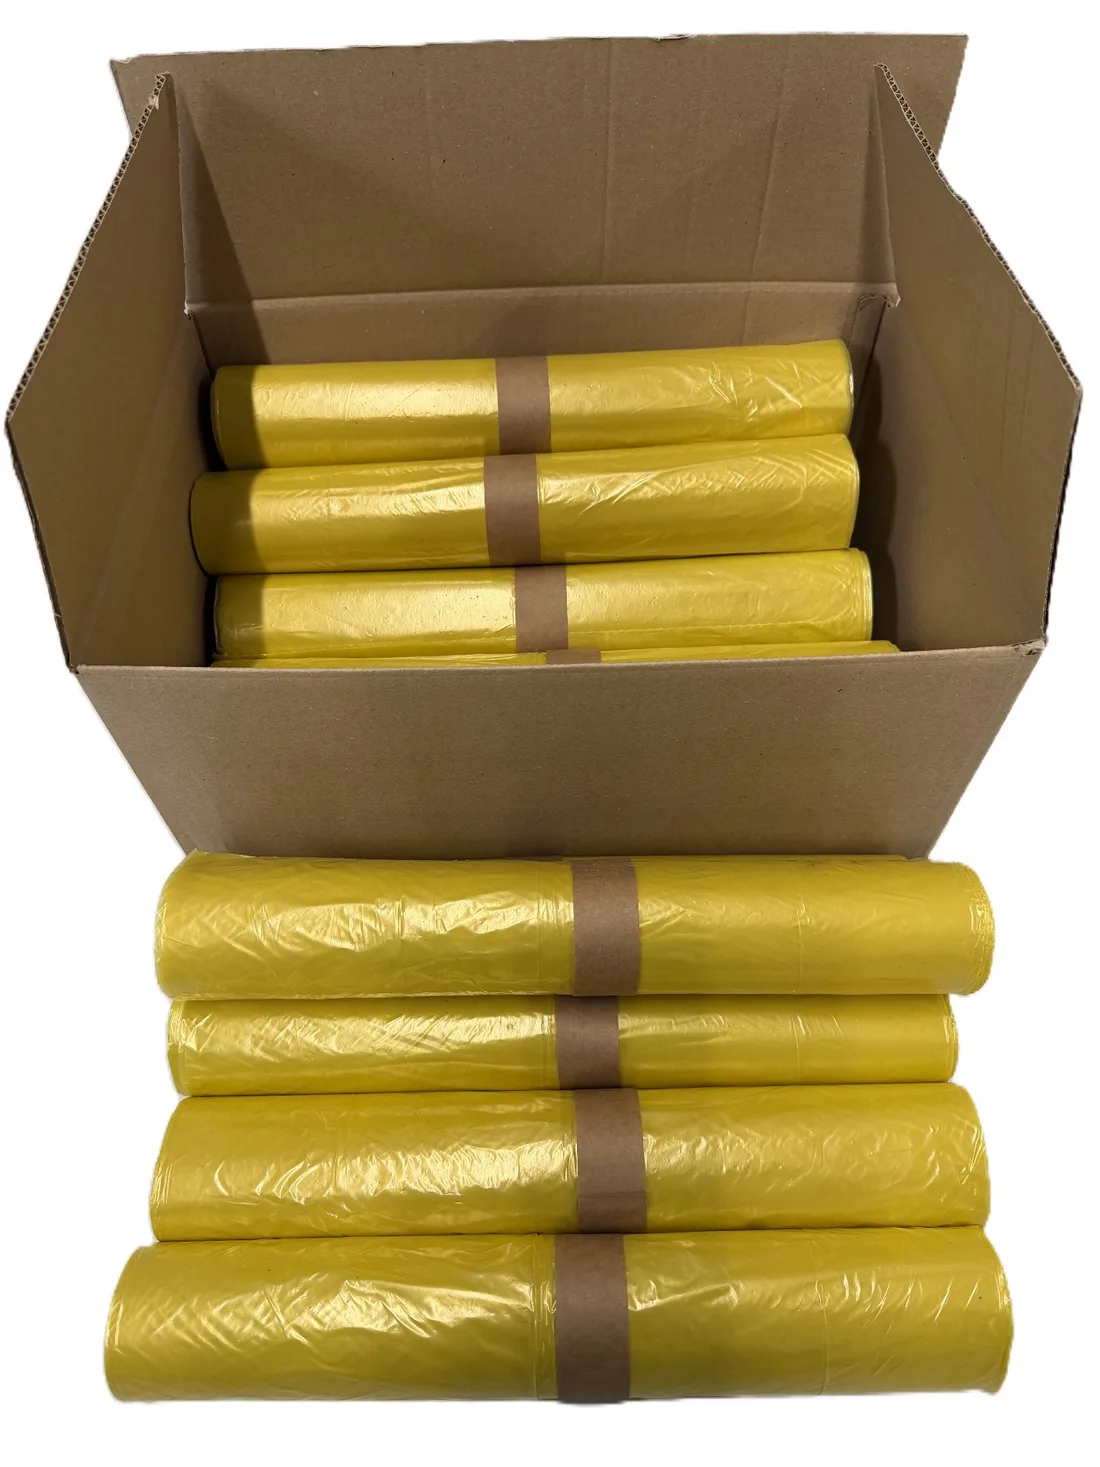
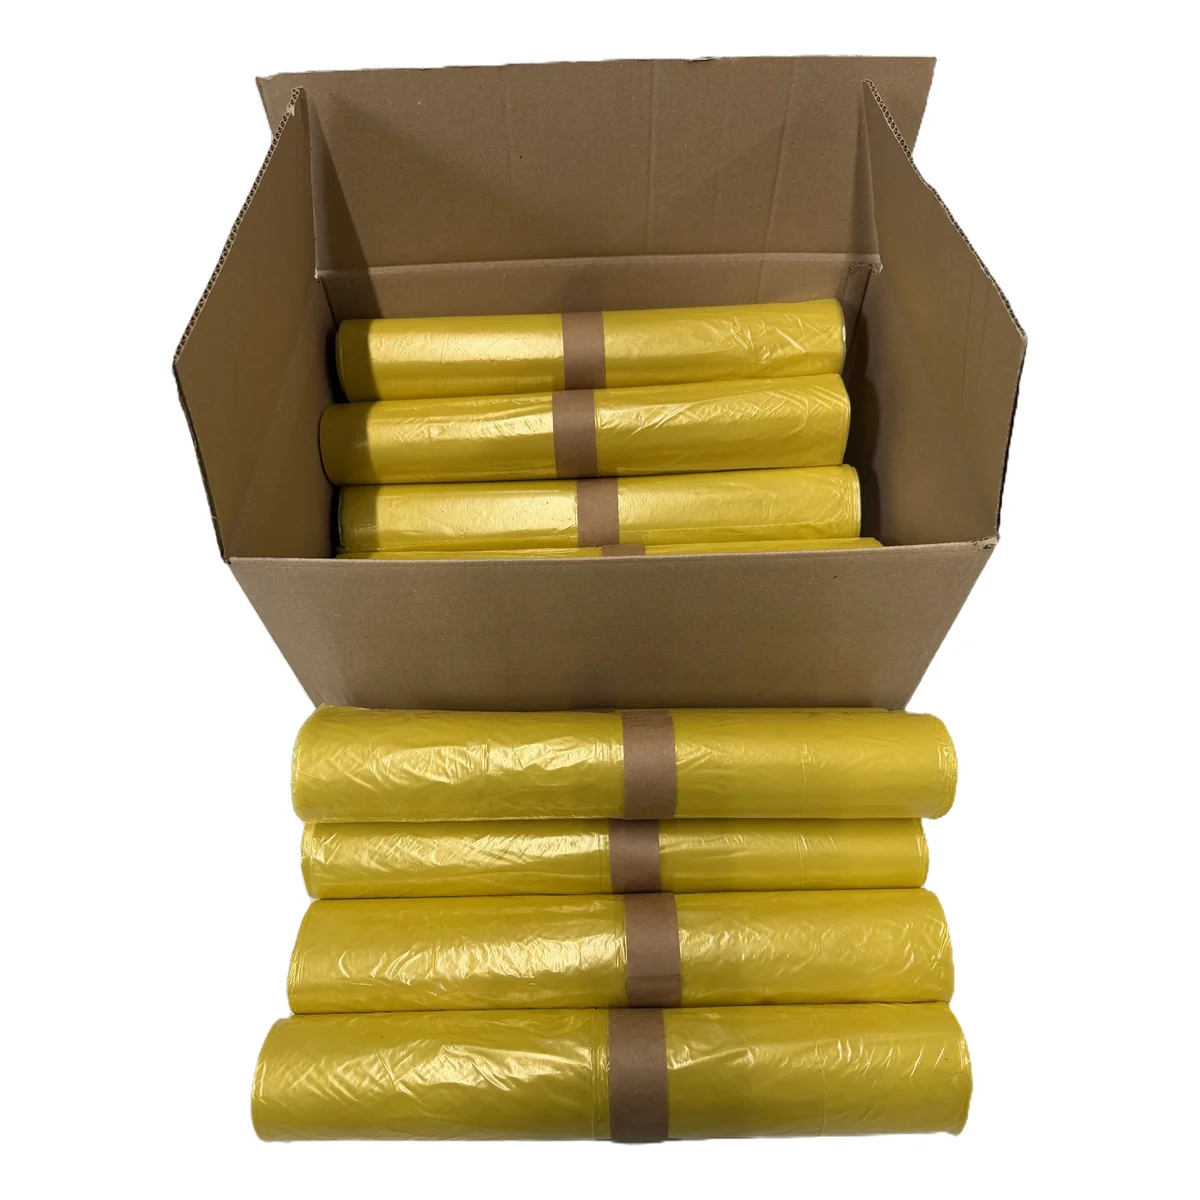
Zdjecia workow: czyste biale tlo, kwadratowy kadr z rownym marginesem

diff --git a/index.html b/index.html
@@ -48,8 +48,8 @@
     </div>
   </div>
   <div class="hero-produkty">
-    <a href="produkt/worki-na-smieci-120l-zolte/"><img src="img/worki-120l-zolte.webp" alt="Żółte worki na śmieci 120 l na rolkach w kartonie" width="1100" height="1467" fetchpriority="high"></a>
-    <a href="produkt/worki-na-smieci-120l-nadruk-plastik-metal/"><img src="img/worki-120l-plastik-metal.webp" alt="Żółte worki 120 l z nadrukiem PLASTIK + METAL na rolkach w kartonie" width="1100" height="1467"></a>
+    <a href="produkt/worki-na-smieci-120l-zolte/"><img src="img/worki-120l-zolte.webp" alt="Żółte worki na śmieci 120 l na rolkach w kartonie" width="1200" height="1200" fetchpriority="high"></a>
+    <a href="produkt/worki-na-smieci-120l-nadruk-plastik-metal/"><img src="img/worki-120l-plastik-metal.webp" alt="Żółte worki 120 l z nadrukiem PLASTIK + METAL na rolkach w kartonie" width="1200" height="1200"></a>
   </div>
 </section>
 
@@ -64,7 +64,7 @@
     </div>
     <div class="produkty produkty-3">
       <article class="produkt" data-kat="worki">
-  <a href="produkt/worki-na-smieci-120l-zolte/" class="produkt-foto"><img src="img/worki-120l-zolte.webp" alt="Żółte worki na śmieci 120 l na rolkach w kartonie" width="1100" height="1467" loading="lazy"></a>
+  <a href="produkt/worki-na-smieci-120l-zolte/" class="produkt-foto"><img src="img/worki-120l-zolte.webp" alt="Żółte worki na śmieci 120 l na rolkach w kartonie" width="1200" height="1200" loading="lazy"></a>
   <div class="produkt-tresc">
     <span class="produkt-kat">Worki na śmieci</span>
     <h3><a href="produkt/worki-na-smieci-120l-zolte/">Worki na śmieci 120 l, żółte</a></h3>
@@ -75,7 +75,7 @@
     </div>
   </div>
 </article><article class="produkt" data-kat="worki">
-  <a href="produkt/worki-na-smieci-120l-nadruk-plastik-metal/" class="produkt-foto"><img src="img/worki-120l-plastik-metal.webp" alt="Żółte worki 120 l z nadrukiem PLASTIK + METAL na rolkach w kartonie" width="1100" height="1467" loading="lazy"></a>
+  <a href="produkt/worki-na-smieci-120l-nadruk-plastik-metal/" class="produkt-foto"><img src="img/worki-120l-plastik-metal.webp" alt="Żółte worki 120 l z nadrukiem PLASTIK + METAL na rolkach w kartonie" width="1200" height="1200" loading="lazy"></a>
   <div class="produkt-tresc">
     <span class="produkt-kat">Worki na śmieci</span>
     <h3><a href="produkt/worki-na-smieci-120l-nadruk-plastik-metal/">Worki na śmieci 120 l z nadrukiem PLASTIK + METAL</a></h3>
@@ -86,7 +86,7 @@
     </div>
   </div>
 </article><article class="produkt" data-kat="worki">
-  <a href="produkt/worki-na-smieci-120l-zolte-karton-400/" class="produkt-foto"><img src="img/worki-120l-zolte-400.webp" alt="Żółte worki na śmieci 120 l w kartonie 400 sztuk" width="1100" height="1467" loading="lazy"></a>
+  <a href="produkt/worki-na-smieci-120l-zolte-karton-400/" class="produkt-foto"><img src="img/worki-120l-zolte-400.webp" alt="Żółte worki na śmieci 120 l w kartonie 400 sztuk" width="1200" height="1200" loading="lazy"></a>
   <div class="produkt-tresc">
     <span class="produkt-kat">Worki na śmieci</span>
     <h3><a href="produkt/worki-na-smieci-120l-zolte-karton-400/">Worki na śmieci 120 l, żółte, karton 400 szt.</a></h3>

diff --git a/sklep/index.html b/sklep/index.html
@@ -49,7 +49,7 @@
     <p class="wynik" id="wynik" aria-live="polite">3 oferty</p>
     <div class="produkty produkty-3" id="produkty">
       <article class="produkt" data-kat="worki">
-  <a href="../produkt/worki-na-smieci-120l-zolte/" class="produkt-foto"><img src="../img/worki-120l-zolte.webp" alt="Żółte worki na śmieci 120 l na rolkach w kartonie" width="1100" height="1467" loading="lazy"></a>
+  <a href="../produkt/worki-na-smieci-120l-zolte/" class="produkt-foto"><img src="../img/worki-120l-zolte.webp" alt="Żółte worki na śmieci 120 l na rolkach w kartonie" width="1200" height="1200" loading="lazy"></a>
   <div class="produkt-tresc">
     <span class="produkt-kat">Worki na śmieci</span>
     <h2><a href="../produkt/worki-na-smieci-120l-zolte/">Worki na śmieci 120 l, żółte</a></h2>
@@ -60,7 +60,7 @@
     </div>
   </div>
 </article><article class="produkt" data-kat="worki">
-  <a href="../produkt/worki-na-smieci-120l-nadruk-plastik-metal/" class="produkt-foto"><img src="../img/worki-120l-plastik-metal.webp" alt="Żółte worki 120 l z nadrukiem PLASTIK + METAL na rolkach w kartonie" width="1100" height="1467" loading="lazy"></a>
+  <a href="../produkt/worki-na-smieci-120l-nadruk-plastik-metal/" class="produkt-foto"><img src="../img/worki-120l-plastik-metal.webp" alt="Żółte worki 120 l z nadrukiem PLASTIK + METAL na rolkach w kartonie" width="1200" height="1200" loading="lazy"></a>
   <div class="produkt-tresc">
     <span class="produkt-kat">Worki na śmieci</span>
     <h2><a href="../produkt/worki-na-smieci-120l-nadruk-plastik-metal/">Worki na śmieci 120 l z nadrukiem PLASTIK + METAL</a></h2>
@@ -71,7 +71,7 @@
     </div>
   </div>
 </article><article class="produkt" data-kat="worki">
-  <a href="../produkt/worki-na-smieci-120l-zolte-karton-400/" class="produkt-foto"><img src="../img/worki-120l-zolte-400.webp" alt="Żółte worki na śmieci 120 l w kartonie 400 sztuk" width="1100" height="1467" loading="lazy"></a>
+  <a href="../produkt/worki-na-smieci-120l-zolte-karton-400/" class="produkt-foto"><img src="../img/worki-120l-zolte-400.webp" alt="Żółte worki na śmieci 120 l w kartonie 400 sztuk" width="1200" height="1200" loading="lazy"></a>
   <div class="produkt-tresc">
     <span class="produkt-kat">Worki na śmieci</span>
     <h2><a href="../produkt/worki-na-smieci-120l-zolte-karton-400/">Worki na śmieci 120 l, żółte, karton 400 szt.</a></h2>

diff --git a/produkt/worki-na-smieci-120l-zolte/index.html b/produkt/worki-na-smieci-120l-zolte/index.html
@@ -41,7 +41,7 @@
 
     <div class="kp-in">
       <div class="kp-galeria" data-galeria>
-        <div class="kp-tor"><img src="../../img/worki-120l-zolte.webp" alt="Żółte worki na śmieci 120 l na rolkach w kartonie" width="1100" height="1467" fetchpriority="high"></div>
+        <div class="kp-tor"><img src="../../img/worki-120l-zolte.webp" alt="Żółte worki na śmieci 120 l na rolkach w kartonie" width="1200" height="1200" fetchpriority="high"></div>
         
       </div>
       <div class="kp-info">
@@ -83,7 +83,7 @@
   <div class="wrap">
     <div class="sek-glowa"><h2 id="h-inne">Zobacz też</h2><span class="wytlok" aria-hidden="true"></span></div>
     <div class="produkty produkty-2"><article class="produkt" data-kat="worki">
-  <a href="../../produkt/worki-na-smieci-120l-nadruk-plastik-metal/" class="produkt-foto"><img src="../../img/worki-120l-plastik-metal.webp" alt="Żółte worki 120 l z nadrukiem PLASTIK + METAL na rolkach w kartonie" width="1100" height="1467" loading="lazy"></a>
+  <a href="../../produkt/worki-na-smieci-120l-nadruk-plastik-metal/" class="produkt-foto"><img src="../../img/worki-120l-plastik-metal.webp" alt="Żółte worki 120 l z nadrukiem PLASTIK + METAL na rolkach w kartonie" width="1200" height="1200" loading="lazy"></a>
   <div class="produkt-tresc">
     <span class="produkt-kat">Worki na śmieci</span>
     <h3><a href="../../produkt/worki-na-smieci-120l-nadruk-plastik-metal/">Worki na śmieci 120 l z nadrukiem PLASTIK + METAL</a></h3>
@@ -94,7 +94,7 @@
     </div>
   </div>
 </article><article class="produkt" data-kat="worki">
-  <a href="../../produkt/worki-na-smieci-120l-zolte-karton-400/" class="produkt-foto"><img src="../../img/worki-120l-zolte-400.webp" alt="Żółte worki na śmieci 120 l w kartonie 400 sztuk" width="1100" height="1467" loading="lazy"></a>
+  <a href="../../produkt/worki-na-smieci-120l-zolte-karton-400/" class="produkt-foto"><img src="../../img/worki-120l-zolte-400.webp" alt="Żółte worki na śmieci 120 l w kartonie 400 sztuk" width="1200" height="1200" loading="lazy"></a>
   <div class="produkt-tresc">
     <span class="produkt-kat">Worki na śmieci</span>
     <h3><a href="../../produkt/worki-na-smieci-120l-zolte-karton-400/">Worki na śmieci 120 l, żółte, karton 400 szt.</a></h3>

diff --git a/produkt/worki-na-smieci-120l-zolte-karton-400/index.html b/produkt/worki-na-smieci-120l-zolte-karton-400/index.html
@@ -41,7 +41,7 @@
 
     <div class="kp-in">
       <div class="kp-galeria" data-galeria>
-        <div class="kp-tor"><img src="../../img/worki-120l-zolte-400.webp" alt="Żółte worki na śmieci 120 l w kartonie 400 sztuk" width="1100" height="1467" fetchpriority="high"></div>
+        <div class="kp-tor"><img src="../../img/worki-120l-zolte-400.webp" alt="Żółte worki na śmieci 120 l w kartonie 400 sztuk" width="1200" height="1200" fetchpriority="high"></div>
         
       </div>
       <div class="kp-info">
@@ -83,7 +83,7 @@
   <div class="wrap">
     <div class="sek-glowa"><h2 id="h-inne">Zobacz też</h2><span class="wytlok" aria-hidden="true"></span></div>
     <div class="produkty produkty-2"><article class="produkt" data-kat="worki">
-  <a href="../../produkt/worki-na-smieci-120l-zolte/" class="produkt-foto"><img src="../../img/worki-120l-zolte.webp" alt="Żółte worki na śmieci 120 l na rolkach w kartonie" width="1100" height="1467" loading="lazy"></a>
+  <a href="../../produkt/worki-na-smieci-120l-zolte/" class="produkt-foto"><img src="../../img/worki-120l-zolte.webp" alt="Żółte worki na śmieci 120 l na rolkach w kartonie" width="1200" height="1200" loading="lazy"></a>
   <div class="produkt-tresc">
     <span class="produkt-kat">Worki na śmieci</span>
     <h3><a href="../../produkt/worki-na-smieci-120l-zolte/">Worki na śmieci 120 l, żółte</a></h3>
@@ -94,7 +94,7 @@
     </div>
   </div>
 </article><article class="produkt" data-kat="worki">
-  <a href="../../produkt/worki-na-smieci-120l-nadruk-plastik-metal/" class="produkt-foto"><img src="../../img/worki-120l-plastik-metal.webp" alt="Żółte worki 120 l z nadrukiem PLASTIK + METAL na rolkach w kartonie" width="1100" height="1467" loading="lazy"></a>
+  <a href="../../produkt/worki-na-smieci-120l-nadruk-plastik-metal/" class="produkt-foto"><img src="../../img/worki-120l-plastik-metal.webp" alt="Żółte worki 120 l z nadrukiem PLASTIK + METAL na rolkach w kartonie" width="1200" height="1200" loading="lazy"></a>
   <div class="produkt-tresc">
     <span class="produkt-kat">Worki na śmieci</span>
     <h3><a href="../../produkt/worki-na-smieci-120l-nadruk-plastik-metal/">Worki na śmieci 120 l z nadrukiem PLASTIK + METAL</a></h3>

diff --git a/produkt/worki-na-smieci-120l-nadruk-plastik-metal/index.html b/produkt/worki-na-smieci-120l-nadruk-plastik-metal/index.html
@@ -41,7 +41,7 @@
 
     <div class="kp-in">
       <div class="kp-galeria" data-galeria>
-        <div class="kp-tor"><img src="../../img/worki-120l-plastik-metal.webp" alt="Żółte worki 120 l z nadrukiem PLASTIK + METAL na rolkach w kartonie" width="1100" height="1467" fetchpriority="high"></div>
+        <div class="kp-tor"><img src="../../img/worki-120l-plastik-metal.webp" alt="Żółte worki 120 l z nadrukiem PLASTIK + METAL na rolkach w kartonie" width="1200" height="1200" fetchpriority="high"></div>
         
       </div>
       <div class="kp-info">
@@ -83,7 +83,7 @@
   <div class="wrap">
     <div class="sek-glowa"><h2 id="h-inne">Zobacz też</h2><span class="wytlok" aria-hidden="true"></span></div>
     <div class="produkty produkty-2"><article class="produkt" data-kat="worki">
-  <a href="../../produkt/worki-na-smieci-120l-zolte/" class="produkt-foto"><img src="../../img/worki-120l-zolte.webp" alt="Żółte worki na śmieci 120 l na rolkach w kartonie" width="1100" height="1467" loading="lazy"></a>
+  <a href="../../produkt/worki-na-smieci-120l-zolte/" class="produkt-foto"><img src="../../img/worki-120l-zolte.webp" alt="Żółte worki na śmieci 120 l na rolkach w kartonie" width="1200" height="1200" loading="lazy"></a>
   <div class="produkt-tresc">
     <span class="produkt-kat">Worki na śmieci</span>
     <h3><a href="../../produkt/worki-na-smieci-120l-zolte/">Worki na śmieci 120 l, żółte</a></h3>
@@ -94,7 +94,7 @@
     </div>
   </div>
 </article><article class="produkt" data-kat="worki">
-  <a href="../../produkt/worki-na-smieci-120l-zolte-karton-400/" class="produkt-foto"><img src="../../img/worki-120l-zolte-400.webp" alt="Żółte worki na śmieci 120 l w kartonie 400 sztuk" width="1100" height="1467" loading="lazy"></a>
+  <a href="../../produkt/worki-na-smieci-120l-zolte-karton-400/" class="produkt-foto"><img src="../../img/worki-120l-zolte-400.webp" alt="Żółte worki na śmieci 120 l w kartonie 400 sztuk" width="1200" height="1200" loading="lazy"></a>
   <div class="produkt-tresc">
     <span class="produkt-kat">Worki na śmieci</span>
     <h3><a href="../../produkt/worki-na-smieci-120l-zolte-karton-400/">Worki na śmieci 120 l, żółte, karton 400 szt.</a></h3>

diff --git a/_build/build.py b/_build/build.py
@@ -32,7 +32,7 @@ PRODUKTY = [
          opis=['Mocne i wytrzymałe. Klasyczne worki na śmieci pozwalają higienicznie i bezpiecznie przechowywać odpady powstałe podczas gotowania, rozpakowywania przesyłek czy sprzątania.',
                'Prosta, praktyczna forma i dostępność w kilku rozmiarach (60, 80 i 120 litrów) i kolorach.',
                'Pojemne i trwałe: worki na rolce są wykonane z mocnej folii, która zapewnia szczelność i odporność na przypadkowe rozerwanie. Dzięki temu można składować zużyte produkty i odpady bez obaw o przedostanie się do kosza.'],
-         zdj=[('worki-120l-zolte.webp', 'Żółte worki na śmieci 120 l na rolkach w kartonie', 1100, 1467)]),
+         zdj=[('worki-120l-zolte.webp', 'Żółte worki na śmieci 120 l na rolkach w kartonie', 1200, 1200)]),
     dict(slug='worki-na-smieci-120l-nadruk-plastik-metal', kat='worki', nazwa='Worki na śmieci 120 l z nadrukiem PLASTIK + METAL',
          kod='RD2012', cena=100, jedn='karton (12 rolek po 25 szt., 300 szt.)',
          krotko='Żółte worki 120 l z nadrukiem PLASTIK + METAL do segregacji, 20 mikronów, rolka 25 sztuk, karton 300 sztuk.',
@@ -40,7 +40,7 @@ PRODUKTY = [
          opis=['Mocne i wytrzymałe worki z nadrukiem do segregacji odpadów (tworzywa sztuczne i metale). Pozwalają higienicznie i bezpiecznie przechowywać odpady powstałe podczas gotowania, rozpakowywania przesyłek czy sprzątania.',
                'Prosta, praktyczna forma i dostępność w kilku rozmiarach (60, 80 i 120 litrów) i kolorach.',
                'Pojemne i trwałe: worki na rolce są wykonane z mocnej folii, która zapewnia szczelność i odporność na przypadkowe rozerwanie. Dzięki temu można składować zużyte produkty i odpady bez obaw o przedostanie się do kosza.'],
-         zdj=[('worki-120l-plastik-metal.webp', 'Żółte worki 120 l z nadrukiem PLASTIK + METAL na rolkach w kartonie', 1100, 1467)]),
+         zdj=[('worki-120l-plastik-metal.webp', 'Żółte worki 120 l z nadrukiem PLASTIK + METAL na rolkach w kartonie', 1200, 1200)]),
     dict(slug='worki-na-smieci-120l-zolte-karton-400', kat='worki', nazwa='Worki na śmieci 120 l, żółte, karton 400 szt.',
          kod='L2012', cena=125, jedn='karton (400 szt.)',
          krotko='Mocne żółte worki na śmieci 120 l, grubość 20 mikronów, w kartonie 400 sztuk.',
@@ -48,7 +48,7 @@ PRODUKTY = [
          opis=['Mocne i wytrzymałe. Klasyczne worki na śmieci pozwalają higienicznie i bezpiecznie przechowywać odpady powstałe podczas gotowania, rozpakowywania przesyłek czy sprzątania.',
                'Prosta, praktyczna forma i dostępność w kilku rozmiarach (60, 80 i 120 litrów) i kolorach.',
                'Pojemne i trwałe: worki są wykonane z mocnej folii, która zapewnia szczelność i odporność na przypadkowe rozerwanie. Dzięki temu można składować zużyte produkty i odpady bez obaw o przedostanie się do kosza.'],
-         zdj=[('worki-120l-zolte-400.webp', 'Żółte worki na śmieci 120 l w kartonie 400 sztuk', 1100, 1467)]),
+         zdj=[('worki-120l-zolte-400.webp', 'Żółte worki na śmieci 120 l w kartonie 400 sztuk', 1200, 1200)]),
 ]
 
 ZNAK = '<svg class="logo-znak" viewBox="0 0 40 40" aria-hidden="true"><rect width="40" height="40" rx="5"/><path d="M11 30V12h18v18"/></svg>'
